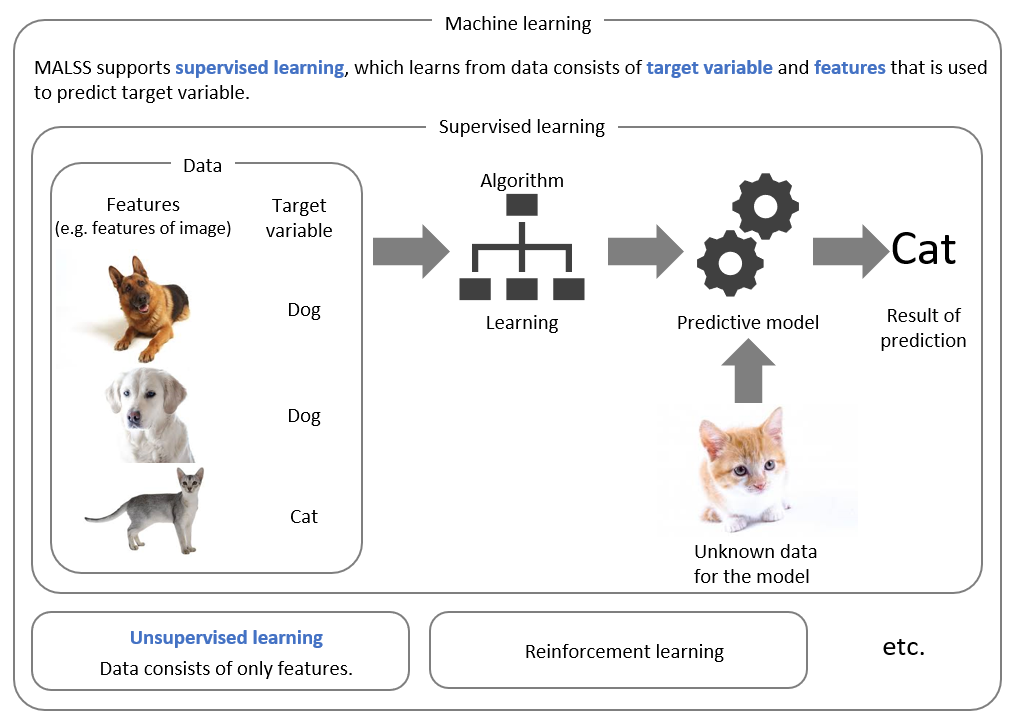
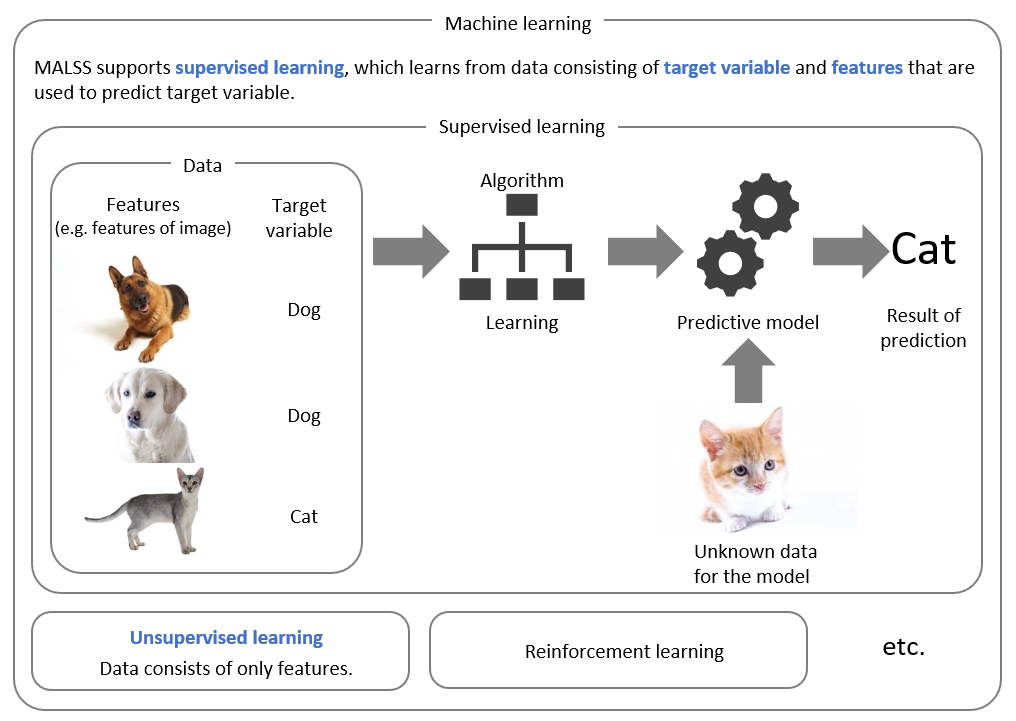
Fix type in a figure.

Changed region(s): [[0.6102, 0.061, 0.9764, 0.1221], [0.0305, 0.1221, 0.2746, 0.1526]]

diff --git a/malss/__init__.py b/malss/__init__.py
@@ -1,7 +1,7 @@
 # -*- coding: utf-8 -*-
 
 __author__ = 'Ryota KAMOSHIDA'
-__version__ = '2.2.1'
+__version__ = '2.2.2'
 __license__ = 'MIT License: http://www.opensource.org/licenses/mit-license.php'
 
 
